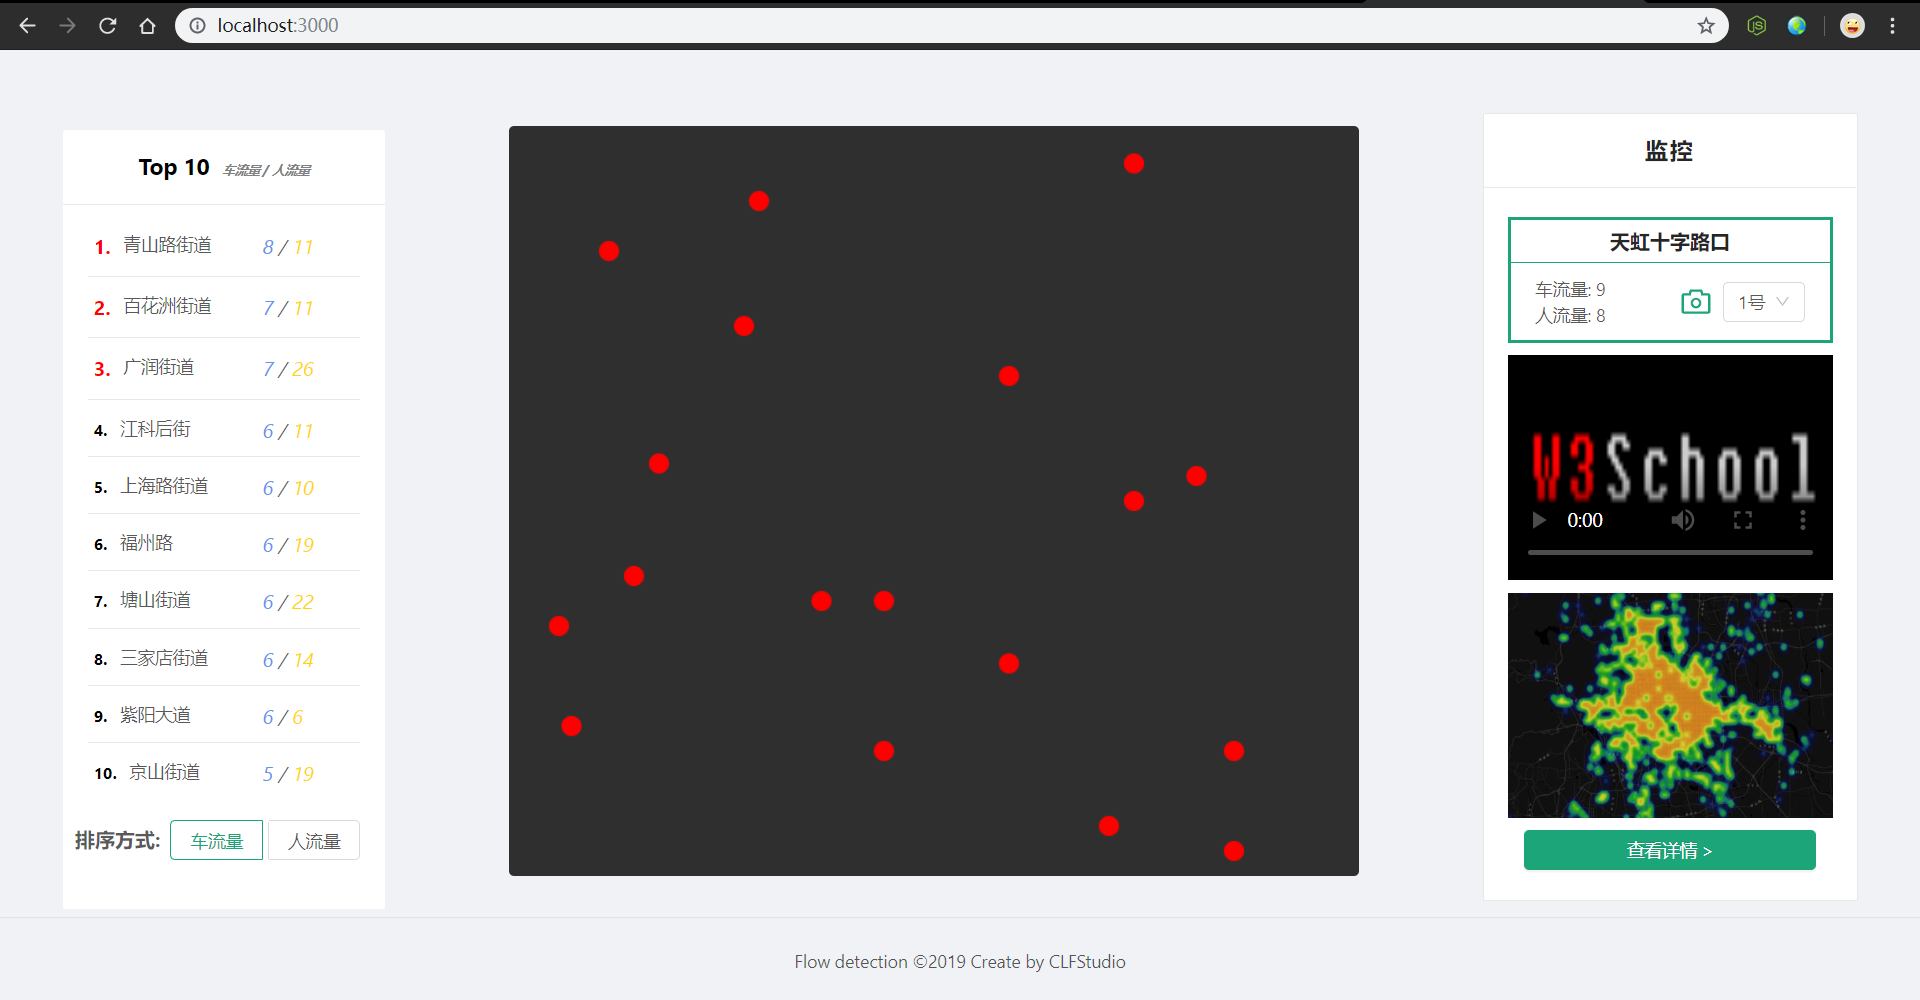
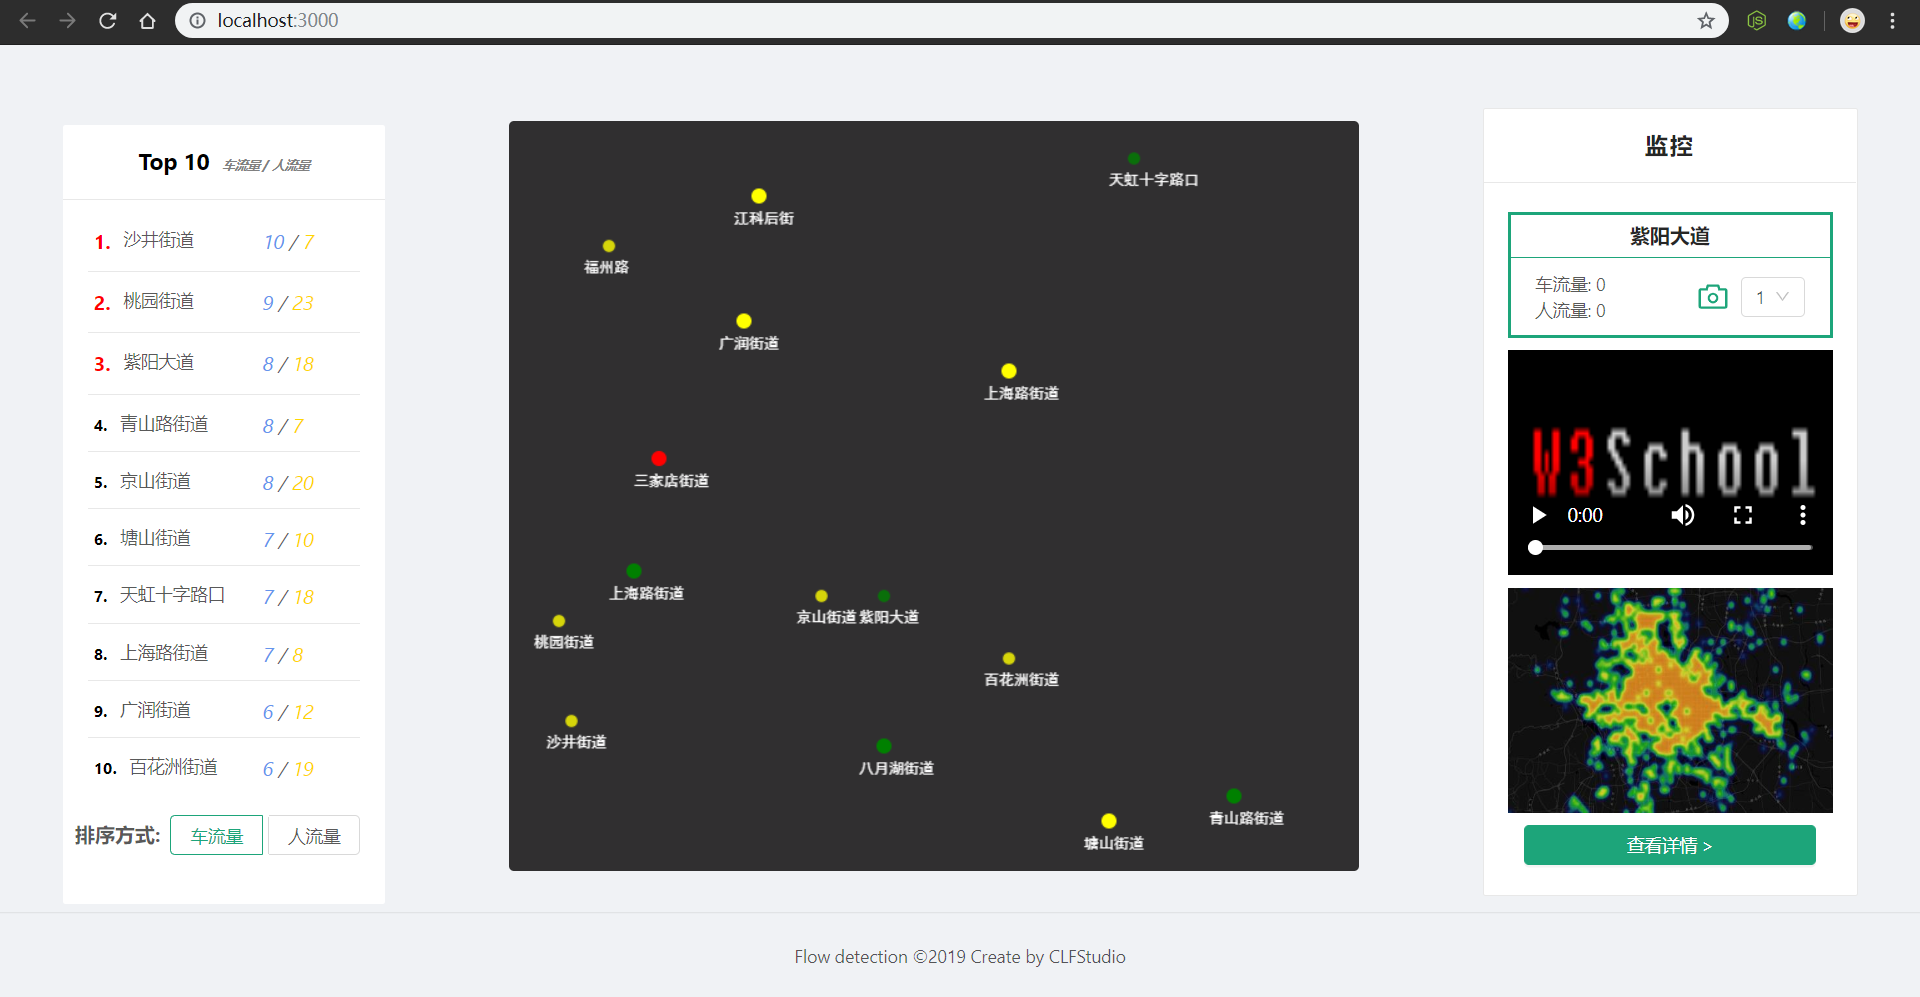
feat(map): add status color and text name to streetPoint

diff --git a/src/components/map/index.tsx b/src/components/map/index.tsx
@@ -1,66 +1,62 @@
-import * as React from 'react'
-import { CameraPoint } from '../../models/CameraPoint'
-import './style.scss'
-
-interface BoundingRec {
-    left: number
-    top: number
-}
+import * as React from 'react';
+import Color from 'color';
+import { Point } from '../../models/Point';
+import { getStreets } from '../../api/streetApi';
+import './style.scss';
 
 interface MapProps {}
 
 export const Map = (props: MapProps) => {
-    const pointCoordinates = [
-        [300, 380],
-        [80, 100],
-        [200, 60],
-        [500, 300],
-        [300, 500],
-        [400, 430],
-        [50, 480],
-        [40, 400],
-        [580, 580],
-        [580, 500],
-        [100, 360],
-        [250, 380],
-        [120, 270],
-        [480, 560],
-        [188, 160],
-        [550, 280],
-        [500, 30],
-        [400, 200],
-    ]
+    const canvasRef = React.useRef<HTMLCanvasElement>(null);
+    const WIDTH = 680;
+    const HEIGHT = 600;
+    let points: Point[];
 
-    const canvasRef = React.useRef<HTMLCanvasElement>(null)
-    const [boundingRec, setBoundingRec] = React.useState<BoundingRec>({
-        left: 0,
-        top: 0,
-    })
+    const loadStreets = async () => {
+        const streets = await getStreets();
+        points = streets.map(street => {
+            return new Point(street);
+        });
+    };
 
-    const drawCameraPoints = (ctx: CanvasRenderingContext2D) => {
-        if (ctx !== null) {
-            const points = pointCoordinates.map(
-                coordinate => new CameraPoint(coordinate[0], coordinate[1])
-            )
-            points.forEach(point => point.draw(ctx))
-        }
-    }
+    React.useLayoutEffect(() => {
+        loadStreets();
+    }, []);
 
     React.useEffect(() => {
-        const canvas = canvasRef.current
+        const canvas = canvasRef.current;
+        if (canvas) {
+            const ctx = canvas.getContext('2d');
+            canvas.width = WIDTH;
+            canvas.height = HEIGHT;
+            if (ctx) {
+                const timer = setInterval(() => {
+                    // 清除画布
+                    ctx.clearRect(0, 0, WIDTH, HEIGHT);
+                    points.forEach(point => {
+                        if (point.flag === 'small') {
+                            point.color = Color(point.defaultColor)
+                                .fade(0.2)
+                                .toString();
+                            point.radius = point.radius * 0.8;
+                            point.flag = 'big';
+                        } else {
+                            point.color = point.defaultColor;
+                            point.radius = Point.DEFAULT_RADIUS;
+                            point.flag = 'small';
+                        }
+                        point.draw(ctx);
+                    });
+                }, 500);
 
-        if (!!canvas) {
-            const ctx = canvas.getContext('2d')
-            canvas.width = 680
-            canvas.height = 600
-
-            const rec = canvas.getBoundingClientRect()
-            setBoundingRec(rec)
-            ctx && drawCameraPoints(ctx)
+                return () => {
+                    clearInterval(timer);
+                };
+            }
         }
-    }, [])
+    }, []);
 
-    const handleClick = (event: React.MouseEvent<HTMLCanvasElement>) => {}
+    const handleClick = (event: React.MouseEvent<HTMLCanvasElement>) => {};
 
-    return <canvas ref={canvasRef} className="map" onClick={handleClick} />
-}
+    return <canvas ref={canvasRef} className="map" onClick={handleClick} />;
+};

diff --git a/src/api/streetApi.ts b/src/api/streetApi.ts
@@ -3,26 +3,92 @@ import _ from 'lodash';
 
 const streetVideosAddress = [''];
 
-const streetNames = [
-    '紫阳大道',
-    '福州路',
-    '江科后街',
-    '天虹十字路口',
-    '八月湖街道',
-    '百花洲街道',
-    '沙井街道',
-    '桃园街道',
-    '青山路街道',
-    '上海路街道',
-    '京山街道',
-    '三家店街道',
-    '塘山街道',
-    '广润街道',
-    '上海路街道',
+interface FakerStreetItem {
+    name: string;
+    x: number;
+    y: number;
+}
+
+const streetNames: FakerStreetItem[] = [
+    {
+        name: '紫阳大道',
+        x: 300,
+        y: 380,
+    },
+    {
+        name: '福州路',
+        x: 80,
+        y: 100,
+    },
+    {
+        name: '江科后街',
+        x: 200,
+        y: 60,
+    },
+    {
+        name: '天虹十字路口',
+        x: 500,
+        y: 30,
+    },
+    {
+        name: '八月湖街道',
+        x: 300,
+        y: 500,
+    },
+    {
+        name: '百花洲街道',
+        x: 400,
+        y: 430,
+    },
+    {
+        name: '沙井街道',
+        x: 50,
+        y: 480,
+    },
+    {
+        name: '桃园街道',
+        x: 40,
+        y: 400,
+    },
+    {
+        name: '青山路街道',
+        x: 580,
+        y: 540,
+    },
+    {
+        name: '上海路街道',
+        x: 100,
+        y: 360,
+    },
+    {
+        name: '京山街道',
+        x: 250,
+        y: 380,
+    },
+    {
+        name: '三家店街道',
+        x: 120,
+        y: 270,
+    },
+    {
+        name: '塘山街道',
+        x: 480,
+        y: 560,
+    },
+    {
+        name: '广润街道',
+        x: 188,
+        y: 160,
+    },
+    {
+        name: '上海路街道',
+        x: 400,
+        y: 200,
+    },
 ];
 
-export const getRankingList = async (): Promise<Street[]> => {
-    return streetNames.map<Street>(name => {
+export const getStreets = async (): Promise<Street[]> => {
+    return streetNames.map<Street>(({ name, x, y }) => {
         const randomCameraCount = _.random(1, 4);
         return {
             name,
@@ -34,6 +100,8 @@ export const getRankingList = async (): Promise<Street[]> => {
                     videoAddress: '',
                 };
             }),
+            x,
+            y,
         };
     });
 };

diff --git a/src/models/Point.ts b/src/models/Point.ts
@@ -1,0 +1,63 @@
+import { Street } from './Street';
+import _ from 'lodash';
+import Color from 'color';
+
+enum StreetStatus {
+    NORMAL,
+    CROWDED,
+    VERY_CROWDED,
+}
+
+export class Point {
+    static DEFAULT_RADIUS = 6;
+    static mapStatusToColor = (status: StreetStatus): string => {
+        const statusToColorMap = new Map<StreetStatus, string>([
+            [StreetStatus.NORMAL, 'green'],
+            [StreetStatus.CROWDED, 'yellow'],
+            [StreetStatus.VERY_CROWDED, 'red'],
+        ]);
+
+        return statusToColorMap.get(status) || 'green';
+    };
+
+    street: Street;
+    x: number;
+    y: number;
+    radius: number;
+    defaultColor: string;
+    color: string;
+    status: StreetStatus;
+    flag: string;
+
+    constructor(street: Street) {
+        this.street = street;
+        this.x = street.x;
+        this.y = street.y;
+        this.status = this.computeStatus();
+        this.color = this.defaultColor = Point.mapStatusToColor(this.status);
+        this.radius = Point.DEFAULT_RADIUS;
+        this.flag = Math.random() < 0.5 ? 'small' : 'big';
+    }
+
+    computeStatus = () => {
+        const averageCarFlow = _.mean(this.street.cameras.map(camera => camera.carFlow)) || 0;
+        if (averageCarFlow <= 5) {
+            return StreetStatus.NORMAL;
+        } else if (averageCarFlow > 5 && averageCarFlow <= 8) {
+            return StreetStatus.CROWDED;
+        } else {
+            return StreetStatus.VERY_CROWDED;
+        }
+    };
+
+    draw(ctx: CanvasRenderingContext2D) {
+        ctx.beginPath();
+        ctx.arc(this.x, this.y, this.radius, 0, Math.PI * 2);
+        ctx.closePath();
+        ctx.fillStyle = this.color;
+        ctx.fill();
+        ctx.font = '12px 黑体';
+        ctx.fillStyle = 'white';
+        ctx.fillText(this.street.name, this.x - 20, this.y + this.radius + 16);
+    }
+}

diff --git a/src/components/rankingList/index.tsx b/src/components/rankingList/index.tsx
@@ -4,7 +4,7 @@ import _ from 'lodash';
 import { RankListItem } from '../rankingListItem';
 import { RankingListSetting } from '../RankingListSetting';
 import { Street } from '../../models/Street';
-import { getRankingList } from '../../api/streetApi';
+import { getStreets } from '../../api/streetApi';
 import './style.scss';
 
 interface ItemType {
@@ -32,7 +32,7 @@ export const RankingList = ({ onSelectStreet }: RankingListProps) => {
     });
 
     const loadStreetList = async () => {
-        const streets = await getRankingList();
+        const streets = await getStreets();
         const newStreetItems = streets
             .sort((street1, street2) => {
                 return sortWayRef.current === 'car-flow'

diff --git a/src/pages/home/index.tsx b/src/pages/home/index.tsx
@@ -15,6 +15,8 @@ export const Home = React.memo(() => {
                 videoAddress: 'http://www.w3school.com.cn/i/movie.ogg',
             },
         ],
+        x: 0,
+        y: 0,
     };
     const [observingStreet, setObservingStreet] = React.useState<Street>(defaultObservingStreet);
 

diff --git a/src/models/Street.ts b/src/models/Street.ts
@@ -8,4 +8,6 @@ export interface StreetCamera {
 export interface Street {
     name: string;
     cameras: StreetCamera[];
+    x: number;
+    y: number;
 }

diff --git a/src/components/map/style.scss b/src/components/map/style.scss
@@ -1,5 +1,5 @@
 .map {
     align-self: center;
-    border-radius: 4px;
     background-color: rgba(22, 21, 21, 0.877);
+    border-radius: 4px;
 }

diff --git a/README.md b/README.md
@@ -3,9 +3,9 @@
 ### 技术栈
 
 1. react hooks + typescript
-2. create-react-app 官方脚手架
-3. ant design 蚂蚁金服开源的 react UI 库
-
+2. ant design UI library
+3. create-react-app cli
+    
 ### 当前进度
 
-![progress](https://github.com/tjx666/flow-detection-client/raw/master/screenshots/preview.png?raw=true)
+![progress](https://github.com/tjx666/flow-detection-client/raw/master/screenshots/previe.png?raw=true)
